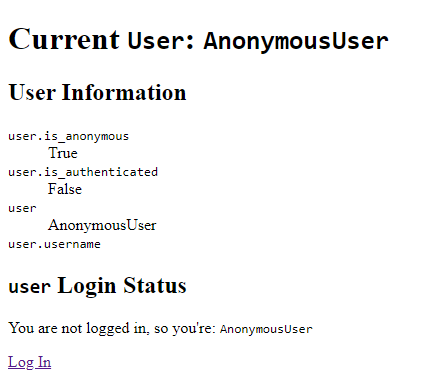
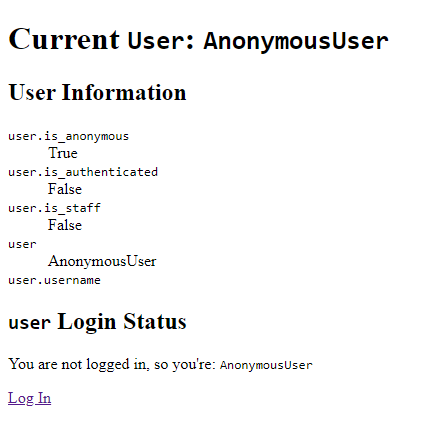
Modify 'base.html' and 'home.html' to show 'is_staff' attribute. Modify documentation.

diff --git a/templates/home.html b/templates/home.html
@@ -7,6 +7,9 @@
     <h2><code>user</code> Login Status</h2>
     {% if user.is_authenticated %}
         <p>You are logged in, and you're: <code>{{ user }}</code></p>
+        {% if user.is_staff %}
+            <a href="{% url 'admin:index' %}">Django Admin Interface</a>
+        {% endif %}
         <p><a href="{% url 'logout' %}">Log Out</a></p>
     {% else %}
         <p>You are not logged in, so you're: <code>{{ user }}</code></p>

diff --git a/templates/base.html b/templates/base.html
@@ -16,6 +16,8 @@
         <dd>{{ user.is_anonymous }}</dd>
         <dt><code>user.is_authenticated</code></dt>
         <dd>{{ user.is_authenticated }}</dd>
+        <dt><code>user.is_staff</code></dt>
+        <dd>{{ user.is_staff }}</dd>
         <dt><code>user</code></dt>
         <dd>{{ user }}</dd>
         <dt><code>user.username</code></dt>

diff --git a/process/03_add_user_login_and_logout.md b/process/03_add_user_login_and_logout.md
@@ -104,10 +104,10 @@
         <h2><code>user</code> Login Status</h2>
         {% if user.is_authenticated %}
             <p>You are logged in, and you're: <code>{{ user }}</code></p>
-            <p><a href="{% url 'logout' %}">Log Out</a></p>
-            {% if user.is_superuser %}
-                <p><a href="{% url 'admin:index' %}">Django Admin Interface</a></p>
+            {% if user.is_staff %}
+                <a href="{% url 'admin:index' %}">Django Admin Interface</a>
             {% endif %}
+            <p><a href="{% url 'logout' %}">Log Out</a></p>
         {% else %}
             <p>You are not logged in, so you're: <code>{{ user }}</code></p>
             <p><a href={% url 'login' %}>Log In</a></p>
@@ -139,6 +139,8 @@
             <dd>{{ user.is_anonymous }}</dd>
             <dt><code>user.is_authenticated</code></dt>
             <dd>{{ user.is_authenticated }}</dd>
+            <dt><code>user.is_staff</code></dt>
+            <dd>{{ user.is_staff }}</dd>
             <dt><code>user</code></dt>
             <dd>{{ user }}</dd>
             <dt><code>user.username</code></dt>

diff --git a/process/04_explore_user_attributes_and_url_routes.md b/process/04_explore_user_attributes_and_url_routes.md
@@ -6,6 +6,6 @@
 
   ![AnonymousUser object](../images/anonymoususer.png)
 
-* Home page view for `User` object which has `is_authenticated` set to `True` and `is_superuser` set to `True`:
+* Home page view for `User` object which has `is_authenticated` set to `True` and `is_staff` set to `True`:
 
-  ![User object which has is_authenticated set to True and is_superuser set to True](../images/user_is_authenticated_and_is_superuser.png)
+  ![User object which has is_authenticated set to True and is_staff set to True](../images/user_is_authenticated_and_is_staff.png)
